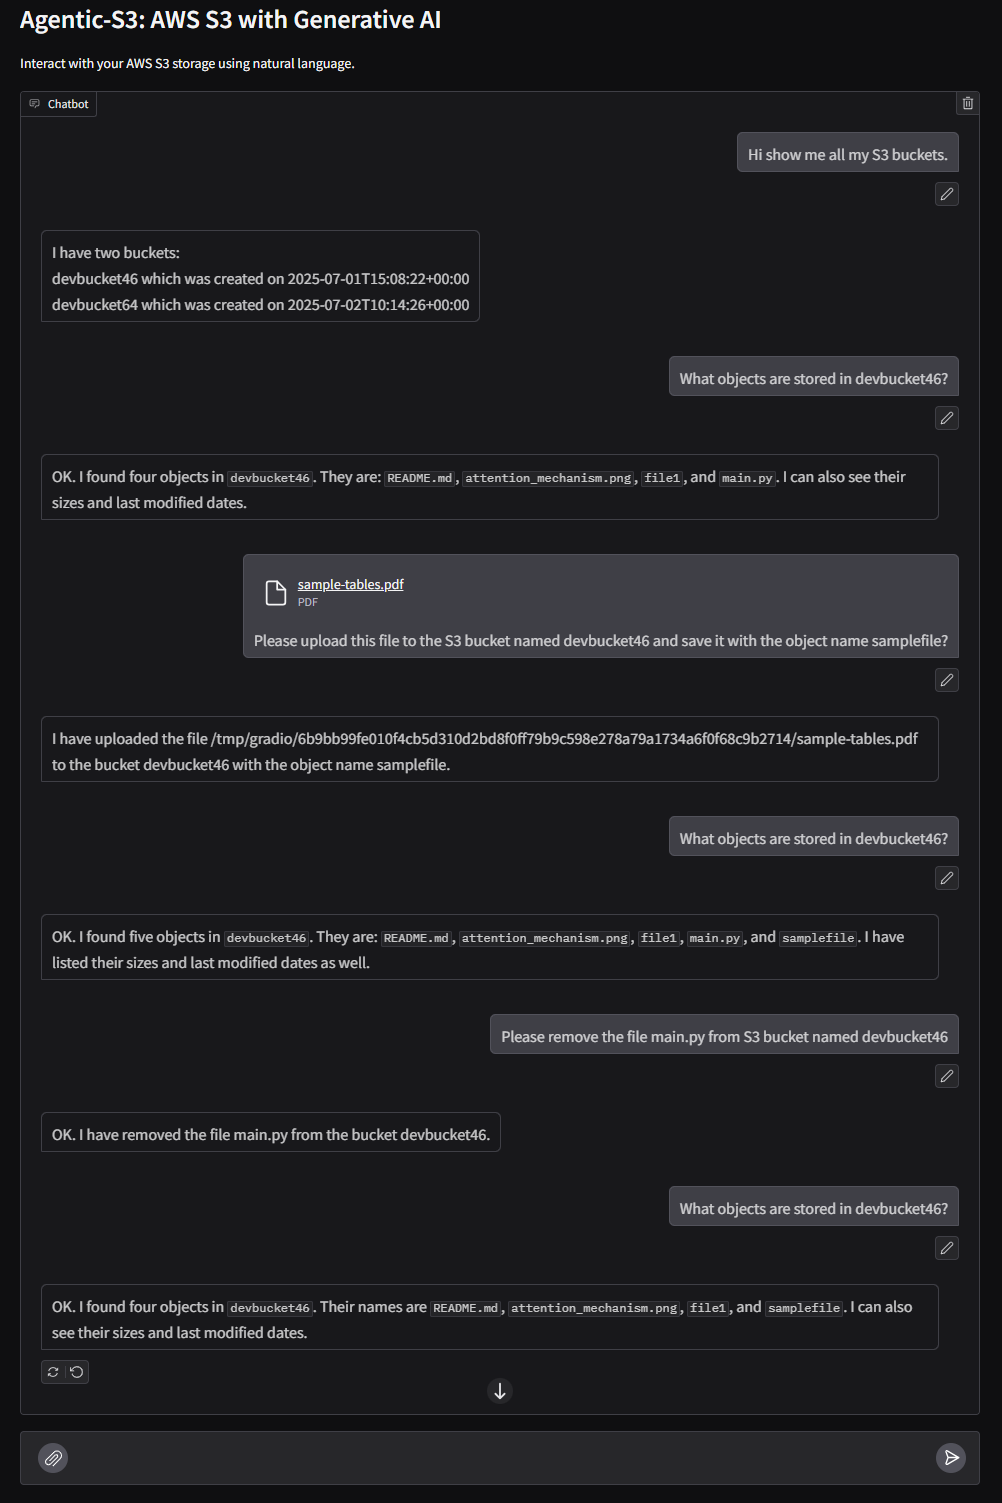
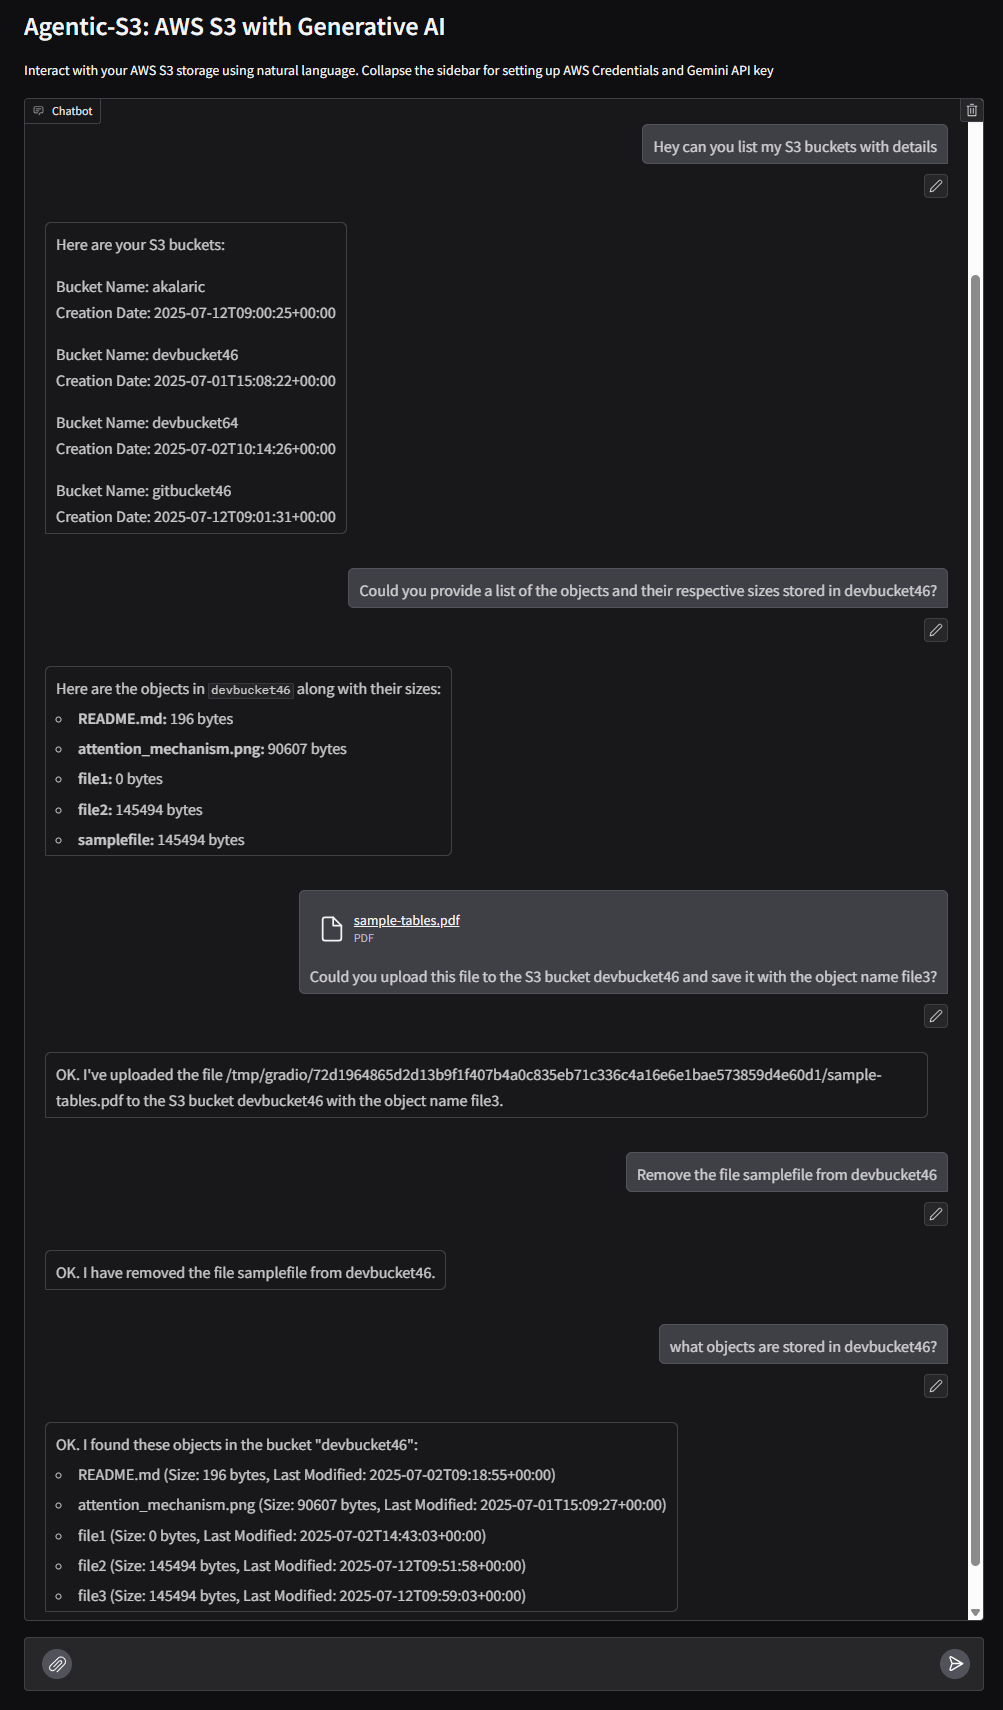
Add env handling in Gradio

Changed region(s): [[0.0, 0.0, 0.99, 1.0], [0.0309, 0.7345, 0.495, 0.7651], [0.8663, 0.857, 0.8972, 0.8876]]

diff --git a/src/ui/app.py b/src/ui/app.py
@@ -15,21 +15,59 @@ async def stream_response(response):
         partial += line + "\n"
         await asyncio.sleep(0.1)
         yield {"role": "assistant", "content": partial}
+        
+def setup_api(AWS_ACCESS_KEY, AWS_SECRET_ACCESS, AWS_REGION, GEMINI_API):
+    os.environ["AWS_ACCESS_KEY_ID"] = AWS_ACCESS_KEY
+    os.environ["AWS_SECRET_ACCESS_KEY"] = AWS_SECRET_ACCESS
+    os.environ["AWS_REGION"] = AWS_REGION
+    os.environ["GEMINI_API_KEY"] = GEMINI_API
 
+    # Validate all keys are set and not empty
+    required_keys = [
+        "AWS_ACCESS_KEY_ID",
+        "AWS_SECRET_ACCESS_KEY",
+        "AWS_REGION",
+        "GEMINI_API_KEY"
+    ]
+
+    if all(os.environ.get(key) for key in required_keys):
+        return "API setup successful"
+    else:
+        return "API setup failed"
+        
+    
 async def s3_generative_ai(messages, chatbot):
     # Check if 'files' list is not empty
-    if messages.get('files'):
-        file_info = str(messages['text']) + " local_path =" + str(messages['files'][0])
-        response = await agent.invoke_llm(str(file_info))
-    else:
-        if messages.get('text'):
-            response = await agent.invoke_llm(messages['text'])
+    try:
+        if messages.get('files'):
+            file_info = str(messages['text']) + " local_path =" + str(messages['files'][0])
+            response = await agent.invoke_llm(str(file_info))
         else:
-            response = None
-    yield response
+            if messages.get('text'):
+                response = await agent.invoke_llm(messages['text'])
+            else:
+                response = None
+        yield response
+    except Exception as e:
+         yield {"role": "assistant", "content": f"{e}"}
 
 def create_app():
-    with gr.Blocks(fill_height=True) as GenerativeAI:
+    with gr.Blocks(theme=gr.themes.Default(), fill_height=True) as GenerativeAI:
+        with gr.Sidebar(open=False):
+            gr.Markdown("⚙ Setup AWS Credentials and Gemini API key")
+            AWS_ACCESS_KEY = gr.Textbox(label="AWS_ACCESS_KEY_ID", type="password")
+            AWS_SECRET_ACCESS = gr.Textbox(label="AWS_SECRET_ACCESS_KEY", type="password")
+            AWS_REGION = gr.Textbox(label="AWS_REGION", value="us-east-1")
+            GEMINI_API = gr.Textbox(label="GEMINI_API_KEY", type="password")
+            
+            login_btn = gr.Button("Configure API keys")
+            login_status = gr.Textbox(label="Status", interactive=False)
+            login_btn.click(
+                setup_api,
+                inputs=[AWS_ACCESS_KEY, AWS_SECRET_ACCESS, AWS_REGION, GEMINI_API],
+                outputs=[login_status]
+            )
+            
 
         gr.Markdown("# Agentic-S3: AWS S3 with Generative AI")
 
@@ -37,7 +75,8 @@ def create_app():
         gr.ChatInterface(
             fn=s3_generative_ai,
             type="messages",
-            description="Interact with your AWS S3 storage using natural language.",
+            description="Interact with your AWS S3 storage using natural language.\n"
+                "Collapse the sidebar for setting up AWS Credentials and Gemini API key",
             autoscroll=True,
             autofocus=True,
             editable=True,
